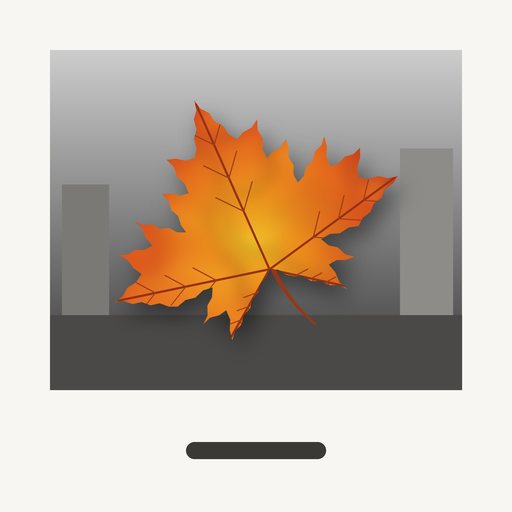
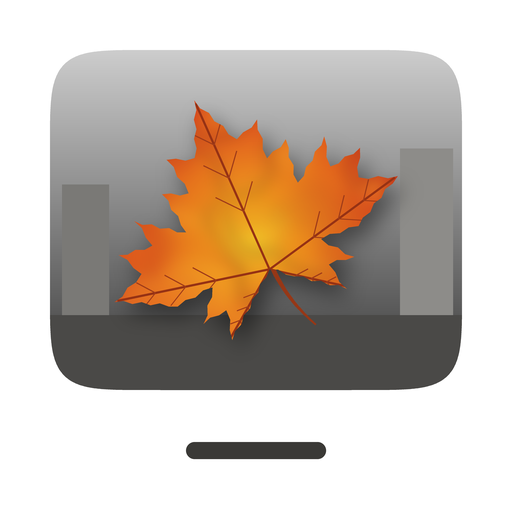
Add files via upload

diff --git a/index.html b/index.html
@@ -4,14 +4,14 @@
 <meta charset="utf-8">
 <meta name="viewport" content="width=device-width,initial-scale=1,viewport-fit=cover">
 <style>:root{padding-top:env(safe-area-inset-top,0px);padding-bottom:env(safe-area-inset-bottom,0px)}body{margin:0;font-size:14px}img{max-width:100%}[hidden]{display:none!important}</style>
-<title>ひといろ</title>
-<link rel="apple-touch-icon" sizes="180x180" href="apple-touch-icon.png?v=4">
-<link rel="icon" type="image/png" sizes="32x32" href="icon-32.png?v=4">
-<link rel="icon" type="image/png" sizes="192x192" href="icon-192.png?v=4">
-<meta name="apple-mobile-web-app-title" content="ひといろ">
+<title>残り色</title>
+<link rel="apple-touch-icon" sizes="180x180" href="apple-touch-icon.png?v=5">
+<link rel="icon" type="image/png" sizes="32x32" href="icon-32.png?v=5">
+<link rel="icon" type="image/png" sizes="192x192" href="icon-192.png?v=5">
+<meta name="apple-mobile-web-app-title" content="残り色">
 <meta name="apple-mobile-web-app-capable" content="yes">
 <meta name="mobile-web-app-capable" content="yes">
-<meta name="theme-color" content="#f7f6f2">
+<meta name="theme-color" content="#ffffff">
 <meta name="claude:viewport-fit-sides" content="cover">
 <link rel="stylesheet" href="https://fonts.googleapis.com/css2?family=Noto+Sans+TC:wght@400;500;700&family=IBM+Plex+Mono:wght@400;500&family=Space+Mono&family=Courier+Prime&family=DM+Mono:wght@400&family=Playfair+Display:wght@500&family=Josefin+Sans:wght@500&family=Caveat:wght@500&family=Shadows+Into+Light&family=Playwrite+AR+Guides&display=swap">
 <style>
@@ -97,7 +97,7 @@ input[type=range]{width:100%;accent-color:var(--accent)}
 
 <div class="wrap">
   <header>
-    <h1>ひと<span>いろ</span> <small style="font-family:var(--mono);font-size:.8rem;font-weight:400;letter-spacing:.08em;color:var(--muted)">hitoiro · 一色</small></h1>
+    <h1>残り<span>色</span> <small style="font-family:var(--mono);font-size:.8rem;font-weight:400;letter-spacing:.08em;color:var(--muted)">nokoriiro</small></h1>
     <p>點照片上的顏色，只留下那個色，其他變成黑白灰。</p>
   </header>
 
